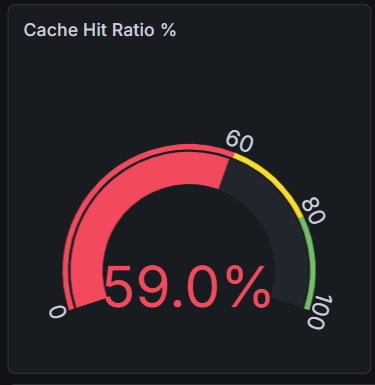
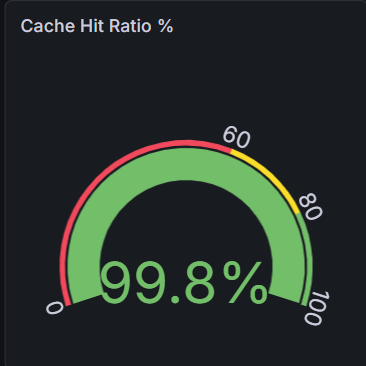
k6 performance load test with README.md polish

Changed region(s): [[0.1202, 0.3306, 0.9016, 0.9016], [0.0601, 0.0301, 0.4809, 0.1202]]

diff --git a/k6-test/redirect_benchmark.js b/k6-test/redirect_benchmark.js
@@ -1,0 +1,72 @@
+import http from "k6/http";
+import { sleep, check } from "k6";
+
+const BASE_URL = "http://localhost:8080";
+const TOKEN = "";
+
+export const options = {
+  stages: [
+    { duration: "10s", target: 1 },   // warmup
+    { duration: "30s", target: 10 },
+    { duration: "1m", target: 30 },
+    { duration: "1m", target: 50 },
+    { duration: "30s", target: 0 },
+  ],
+  thresholds: {
+    http_req_duration: ["p(95)<100"],
+    http_req_failed: ["rate<0.01"],
+  },
+};
+
+export function setup() {
+  const codes = [];
+
+  for (let i = 0; i < 30; i++) {
+    const res = http.post(
+      `${BASE_URL}/urls`,
+      JSON.stringify({
+        original_url: `https://google.com/${i}`,
+      }),
+      {
+        headers: {
+          Authorization: `Bearer ${TOKEN}`,
+          "Content-Type": "application/json",
+        },
+      }
+    );
+
+    if (res.status === 201) {
+      const body = JSON.parse(res.body);
+      codes.push(body.short_code);
+    } else {
+      console.error(`Failed to create URL: ${res.status}`);
+    }
+  }
+
+  console.log(`Created ${codes.length} benchmark URLs`);
+
+  return { codes };
+}
+
+export default function (data) {
+  const codes = data.codes;
+
+  if (!codes || codes.length === 0) {
+    console.error("No short codes available");
+    return;
+  }
+
+  const code =
+    codes[Math.floor(Math.random() * codes.length)];
+
+  const res = http.get(
+    `${BASE_URL}/r/${code}`,
+    { redirects: 0 }
+  );
+
+  check(res, {
+    "status is 301": (r) => r.status === 301,
+  });
+
+  sleep(0.1);
+}

diff --git a/k6-test/load_test.js b/k6-test/load_test.js
@@ -3,7 +3,7 @@ import { check, sleep } from 'k6';
 
 const BASE_URL = 'http://localhost:8080';
 
-const TOKEN = 'eyJhbGciOiJIUzI1NiIsInR5cCI6IkpXVCJ9.eyJ1c2VyX2lkIjoiMDNlZDU0NGYtOTgyYy00ZGIwLWJjNWEtODM2MTRmNGNmNmQxIiwicm9sZSI6ImZyZWUiLCJleHAiOjE3NzYyMzMzNTIsImlhdCI6MTc3NjE0Njk1Mn0.9zSoP8Cw7arsXBZONQ9gc3gry5xN9xbAjsxWXdYhafA';
+const TOKEN = '';
 
 const SHORT_CODES = [];
 
@@ -17,7 +17,7 @@ export const options = {
   ],
   thresholds: {
     http_req_duration: ['p(95)<500'],   // 95% of requests under 500ms
-    http_req_failed:   ['rate<0.995'],   
+    http_req_failed:   ['rate<0.05'],   
   },
 };
 
@@ -25,7 +25,7 @@ export const options = {
 export function setup() {
   const codes = [];
 
-  for (let i = 0; i < 5; i++) {
+  for (let i = 0; i < 20; i++) {
     const res = http.post(
       `${BASE_URL}/urls`,
       JSON.stringify({ original_url: 'https://www.google.com' }),
@@ -88,7 +88,7 @@ export default function (data) {
     });
   }
 
-  sleep(0.2); // 100ms between requests per VU
+  sleep(0.2); // 200ms between requests per VU
 }
 
 //Teardown-runs once after test 

diff --git a/README.md b/README.md
@@ -11,6 +11,16 @@ real backend engineering patterns used in production systems.
 [![Docker](https://img.shields.io/badge/Docker-Compose-blue)](https://docker.com)
 
 ---
+## Key Features
+
+- High-performance URL redirection using Redis cache-aside pattern
+- Distributed rate limiting using Redis Lua scripts
+- JWT-based authentication and authorization
+- Background health monitoring worker pool
+- Full observability stack (Prometheus + Grafana)
+- Containerized deployment with Docker Compose
+- Production-ready graceful shutdown handling
+- Load-tested using k6
 
 ## What This Project Demonstrates
 
@@ -24,6 +34,29 @@ real backend engineering patterns used in production systems.
 | Production containerization | Multi-stage Docker build (~15MB image) |
 | Relational modeling | PostgreSQL with connection pooling via sqlx |
 | JWT authentication | HS256 signed tokens with bcrypt password hashing |
+
+---
+## Tech Stack
+
+Backend:
+- Go (Gin)
+- PostgreSQL
+- Redis
+
+Infrastructure:
+- Docker
+- Docker Compose
+
+Observability:
+- Prometheus
+- Grafana
+
+Testing:
+- k6 (load testing)
+
+Security:
+- JWT authentication
+- bcrypt password hashing
 
 ---
 
@@ -141,7 +174,7 @@ On first request for any shortcode, PostgreSQL is queried once
 and the result is cached in Redis for 24 hours. Every subsequent
 request is served entirely from Redis at sub-millisecond latency.
 
-Cache invalidation is handled on URL deletion — the Redis key is
+**Cache invalidation** is handled on URL deletion — the Redis key is
 removed immediately so deleted URLs stop resolving within the
 same request cycle.
 
@@ -208,12 +241,12 @@ X-RateLimit-Refill-Rate: 1
 | `urlify_health_check_cycles_total` | Counter | — | Completed worker cycles |
 | `urlify_health_check_duration_seconds` | Histogram | — | Worker cycle duration |
 
-###  Live Grafana Dashboard Snapshot
+### Live Grafana Dashboard Snapshot
 
 You can view the production monitoring dashboard here:
 
 🔗 **Public Snapshot:**
-https://snapshots.raintank.io/dashboard/snapshot/bLUyVnrB0cwEZwQTWh8RRaXq8jVQp4I8
+https://snapshots.raintank.io/dashboard/snapshot/Q2iG099Sq3ky6Fx9DjoSM51p2JoU3VQx
 
 This dashboard visualizes:
 
@@ -230,10 +263,10 @@ The system was load tested using **k6**, and metrics were collected via **Promet
 
 | Metric | Visualization |
 |--------|--------------|
-| Request Rate (RPS) | ![](screenshots/rps.png) |
-| Cache Hit Ratio | ![](screenshots/cache-hit-ratio.png) |
-| P99 Latency | ![](screenshots/latency.png) |
-| URL Health Status | ![](screenshots/health_status.png) |
+| Request Rate (RPS) | ![RPS Dashboard](screenshots/rps.png) |
+| Cache Hit Ratio | ![Cache Hit Ratio](screenshots/cache-hit-ratio.png) |
+| P99 Latency | ![P99 Latency](screenshots/latency.png) |
+| URL Health Status | ![URL Health Status](screenshots/health_status.png) |
 
 Key PromQL queries used:
 
@@ -334,11 +367,13 @@ docker compose up --build
 
 | Service | URL |
 |---|---|
-| urlify API | http://localhost:8080 |
+| URLify API | http://localhost:8080 |
 | Prometheus | http://localhost:9090 |
 | Grafana | http://localhost:3000 |
 
-Grafana credentials: `admin` / `urlify123`
+Grafana credentials are defined in the `.env` file.
+
+⚠ Never commit real credentials to source control.
 
 Dashboard is auto-provisioned — navigate to
 **Dashboards → urlify → urlify Production Dashboard**.
@@ -363,11 +398,37 @@ go run cmd/server/main.go
 k6 run k6/load_test.js
 ```
 
-k6 stages: 10 VU ramp → 30 VU sustained → 50 VU spike → ramp down.
 Watch all 11 Grafana panels respond live during the test.
 
 ---
+## Performance Characteristics
 
+Environment:
+
+* Local development machine
+* Docker Compose deployment
+* Go + Redis + PostgreSQL + Prometheus + Grafana
+
+Load test configuration:
+
+* Tool: k6
+* Peak load: 50 virtual users
+* Test duration: ~3 minutes
+* Target endpoint: redirect service
+
+Results:
+
+* Throughput: ~376 requests/sec
+* P99 latency: ~9.83 ms
+* Cache hit ratio: 99.8%
+* Error rate: < 1%
+
+Note:
+
+During benchmarking, rate limits were temporarily increased to measure system throughput without artificial throttling.
+With default rate limits enabled, the system correctly enforced request limits under load.
+
+---
 ## Project Structure
 
 ```
@@ -385,8 +446,13 @@ urlify/
 │       │   └── dashboard.yml       Dashboard provider config
 │       └── datasources/
 │           └── prometheus.yml      Auto-wired Prometheus datasource
-├── k6/
+├── k6-test/
 │   └── load_test.js                Staged load test with setup/teardown
+    └── redirect_benchmark.js       Staged load test to measure performance 
+    └── test1_headers.js
+    └── test2_exhaust_bucket.js
+    └── test3_refill.js
+    └── test4_atomicity.js
 ├── metrics/
 │   └── metrics.go                  All Prometheus metric definitions
 ├── middleware/
@@ -466,6 +532,20 @@ To reset everything:
 ```bash
 docker compose down -v
 ```
+
+---
+## Production Considerations
+
+This project demonstrates production-ready patterns but is configured for local development.
+
+Recommended changes for production:
+
+- Use secure secrets management (Vault / AWS Secrets Manager)
+- Enable HTTPS (TLS termination via reverse proxy)
+- Configure persistent backups for PostgreSQL
+- Set strong passwords for all services
+- Enable authentication for Prometheus and Grafana
+- Configure horizontal scaling behind a load balancer
 
 ---
 
